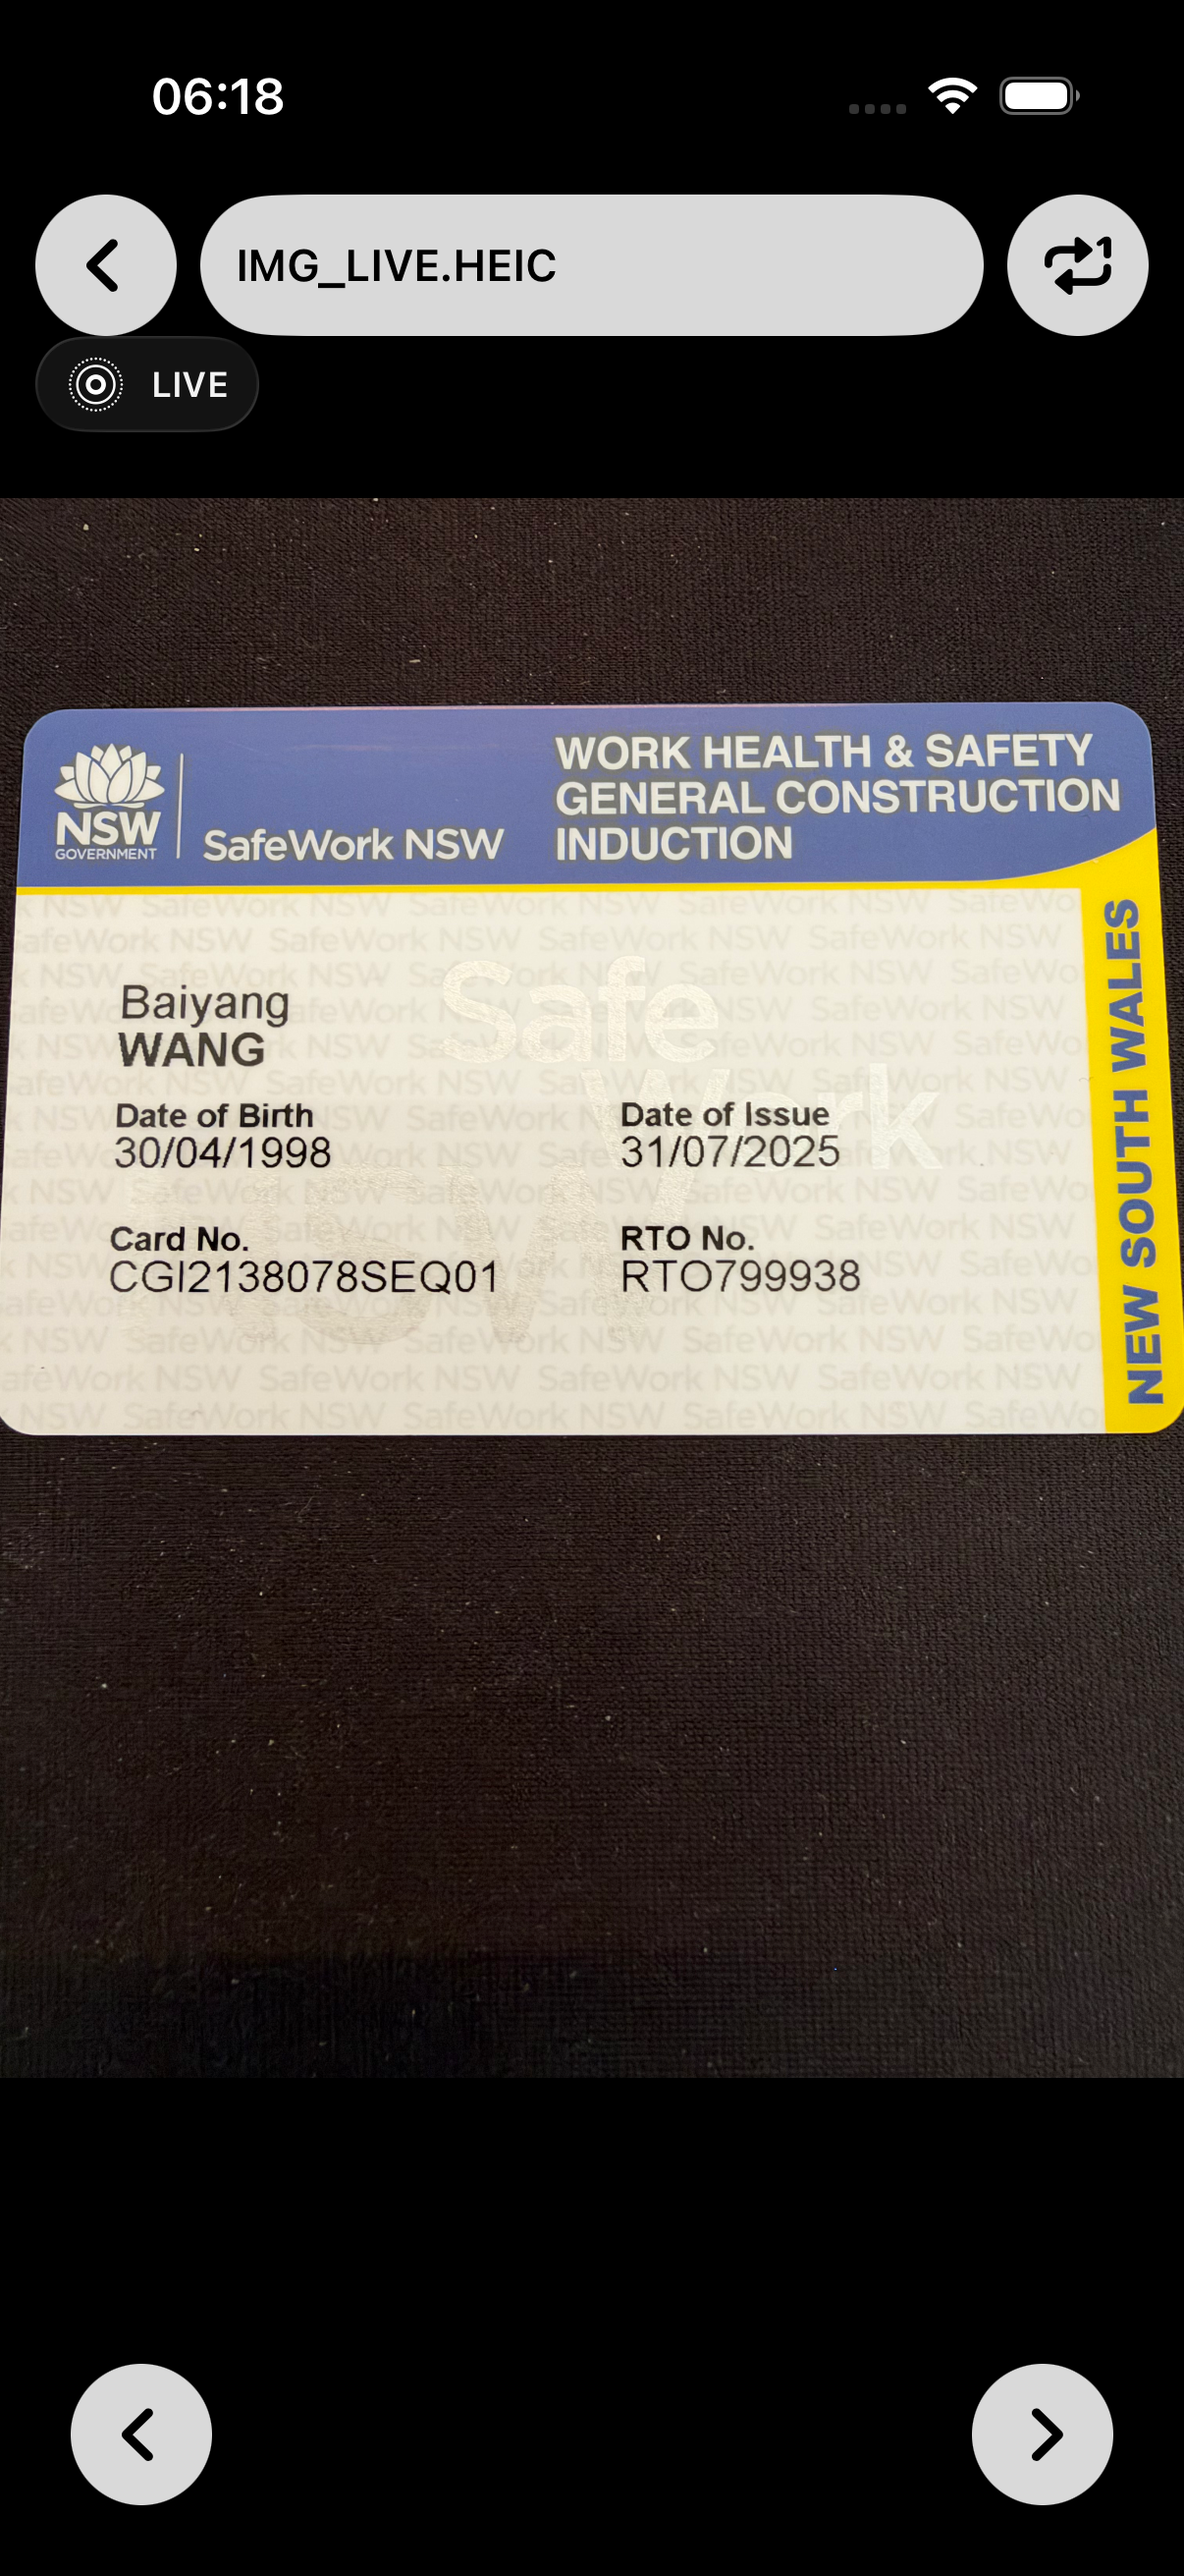
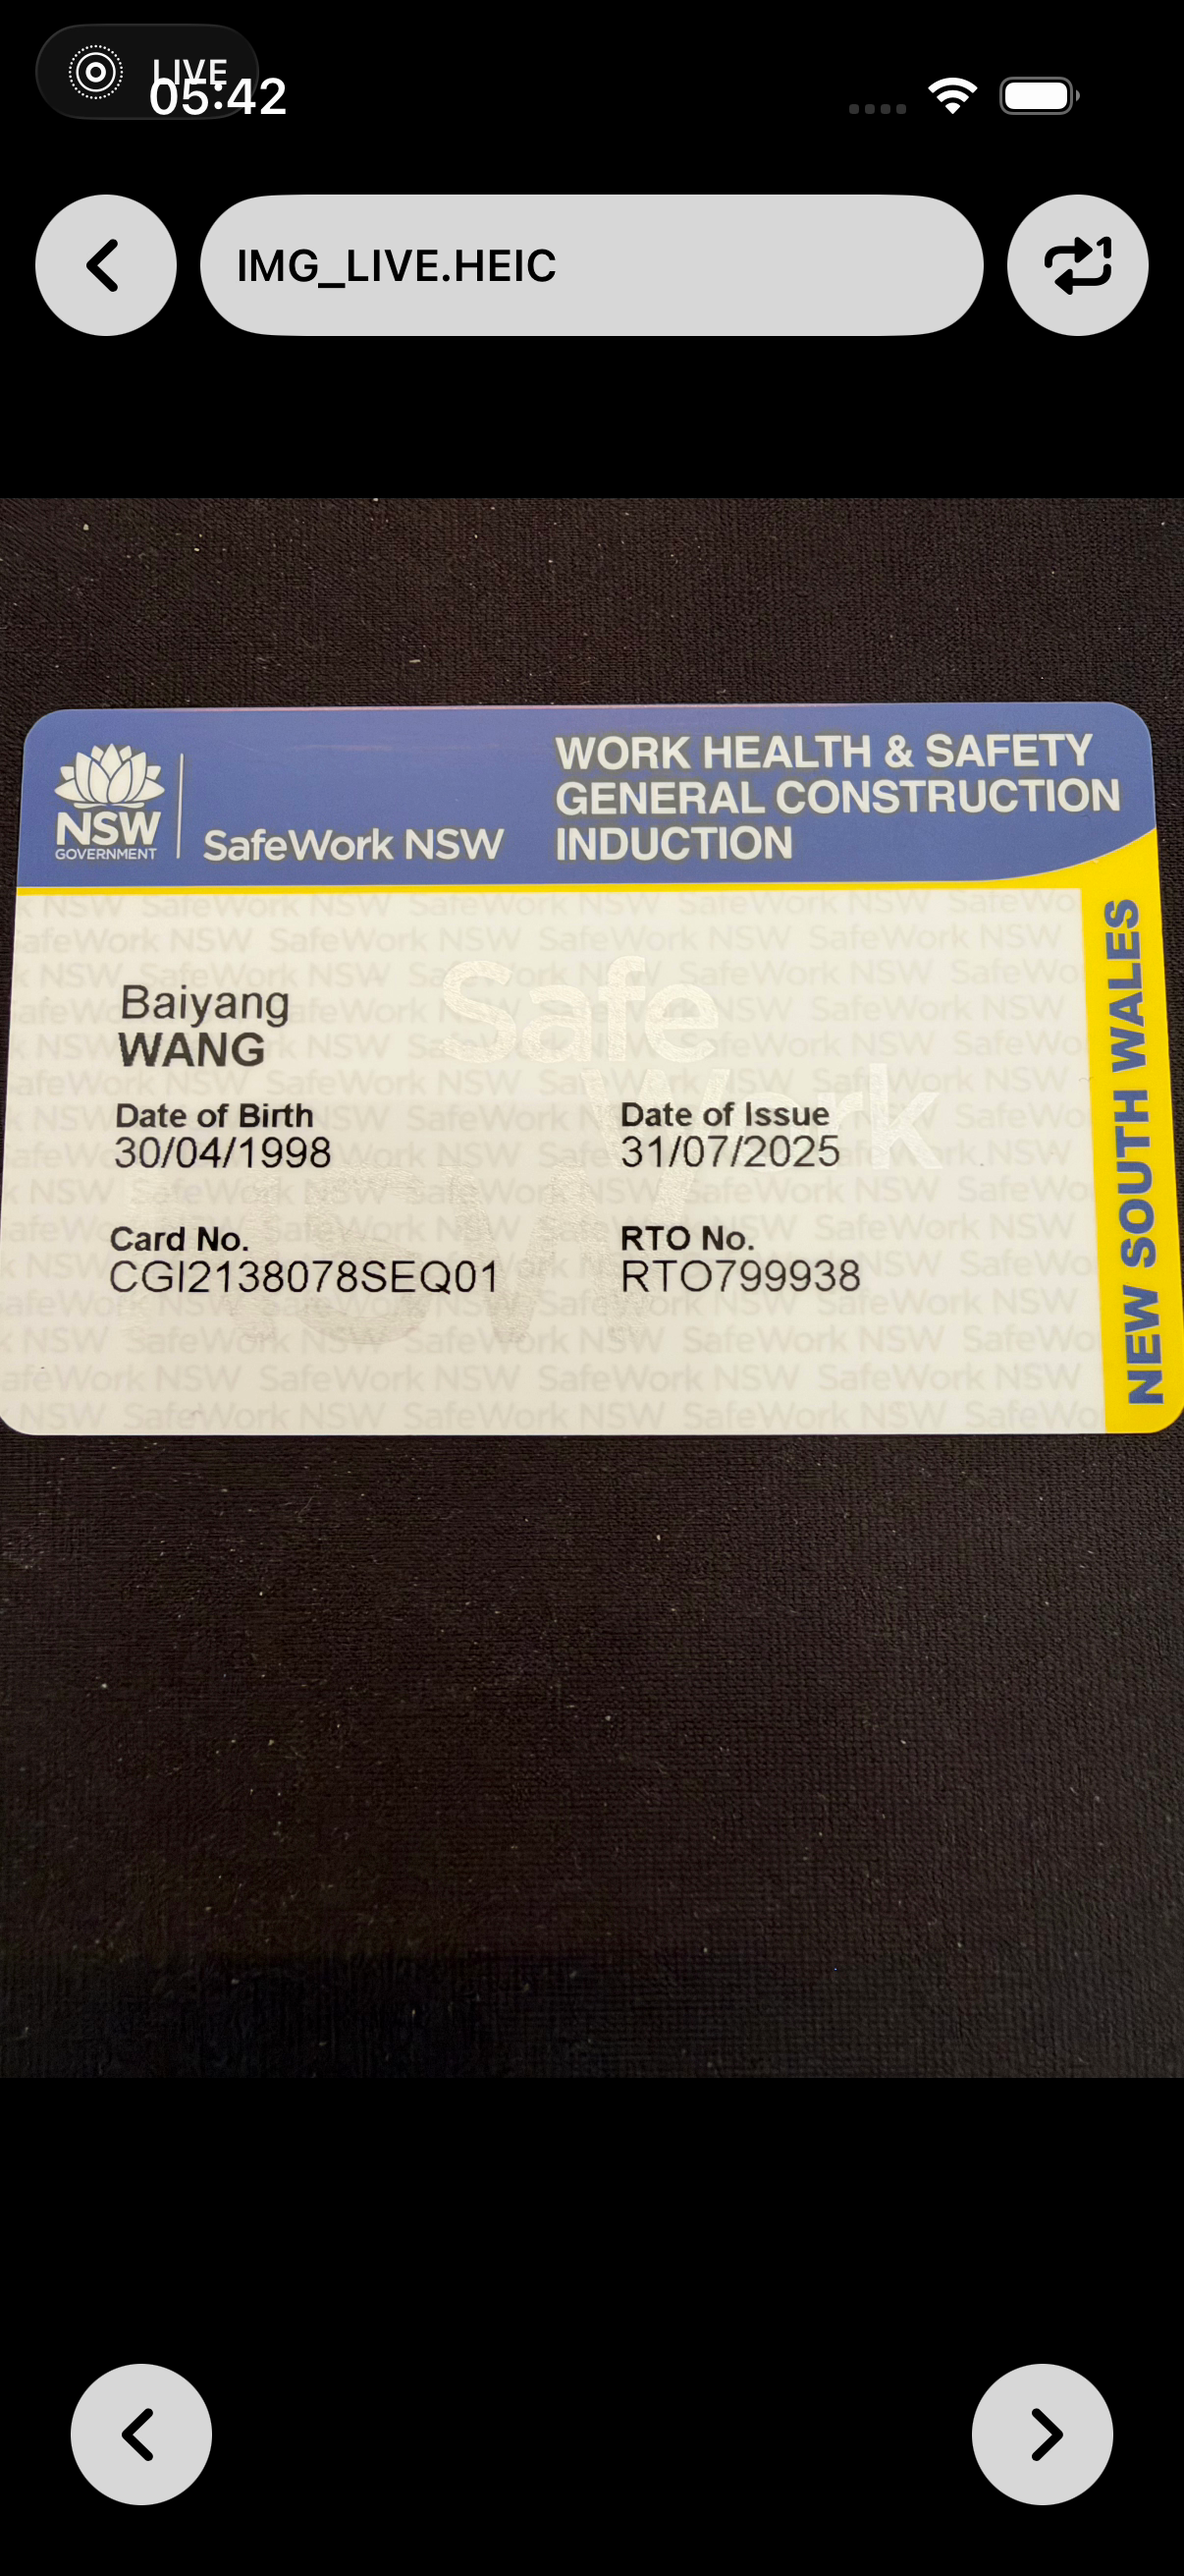
docs(heic): uniquify still/hold and replace share-07 server proof
still≠hold PNGs (hold shows LIVE timer). share-07 is API+gallery
collage with ftypheic, paired MOV qt, live_video_*, enrich
source=e2e-companion — not the Photos app viewer. known stays 1.

diff --git a/docs/heic-live-orientation-report.md b/docs/heic-live-orientation-report.md
@@ -52,6 +52,14 @@ iOS：`Color.black` + overlay + `scaledToFit` + `frame(maxWidth/Height: .infinit
 
 ## 3. Share ← Photos 真分享
 
+### 服务端落盘证据（本轮）
+- `9E36B80F-IMG_LIVE.HEIC` — `ftyp` brand **`heic`**，1452294 bytes  
+- 同 stem `9E36B80F-IMG_LIVE.MOV` — `ftyp` brand **`qt  `**，3754408 bytes；`live_video_uuid=5ab442ef-…`  
+- enrich：`photoAuth=2` → `source=e2e-companion`（**known=1**，非 `photos-pairedVideo`）  
+- 证据图：`share-photos-07-server-ok.png`（API 摘要 + ReSourcer 画廊，**非**系统照片 App）  
+- JSON：`photos-share-server-proof.json`；日志：`photos-share-heic-mov.log`  
+- still≠hold：`ios-live-photo-still.png` / `ios-live-photo-hold.png` MD5 不同；hold 含 LIVE 计时条  
+
 ### 已证明
 - UITest `PhotosShareLiveHEICUITests`：系统相册 → Share Sheet → ReSourcer  
 - 服务端可收到 **HEIC**（`ftypheic` 魔数）  
